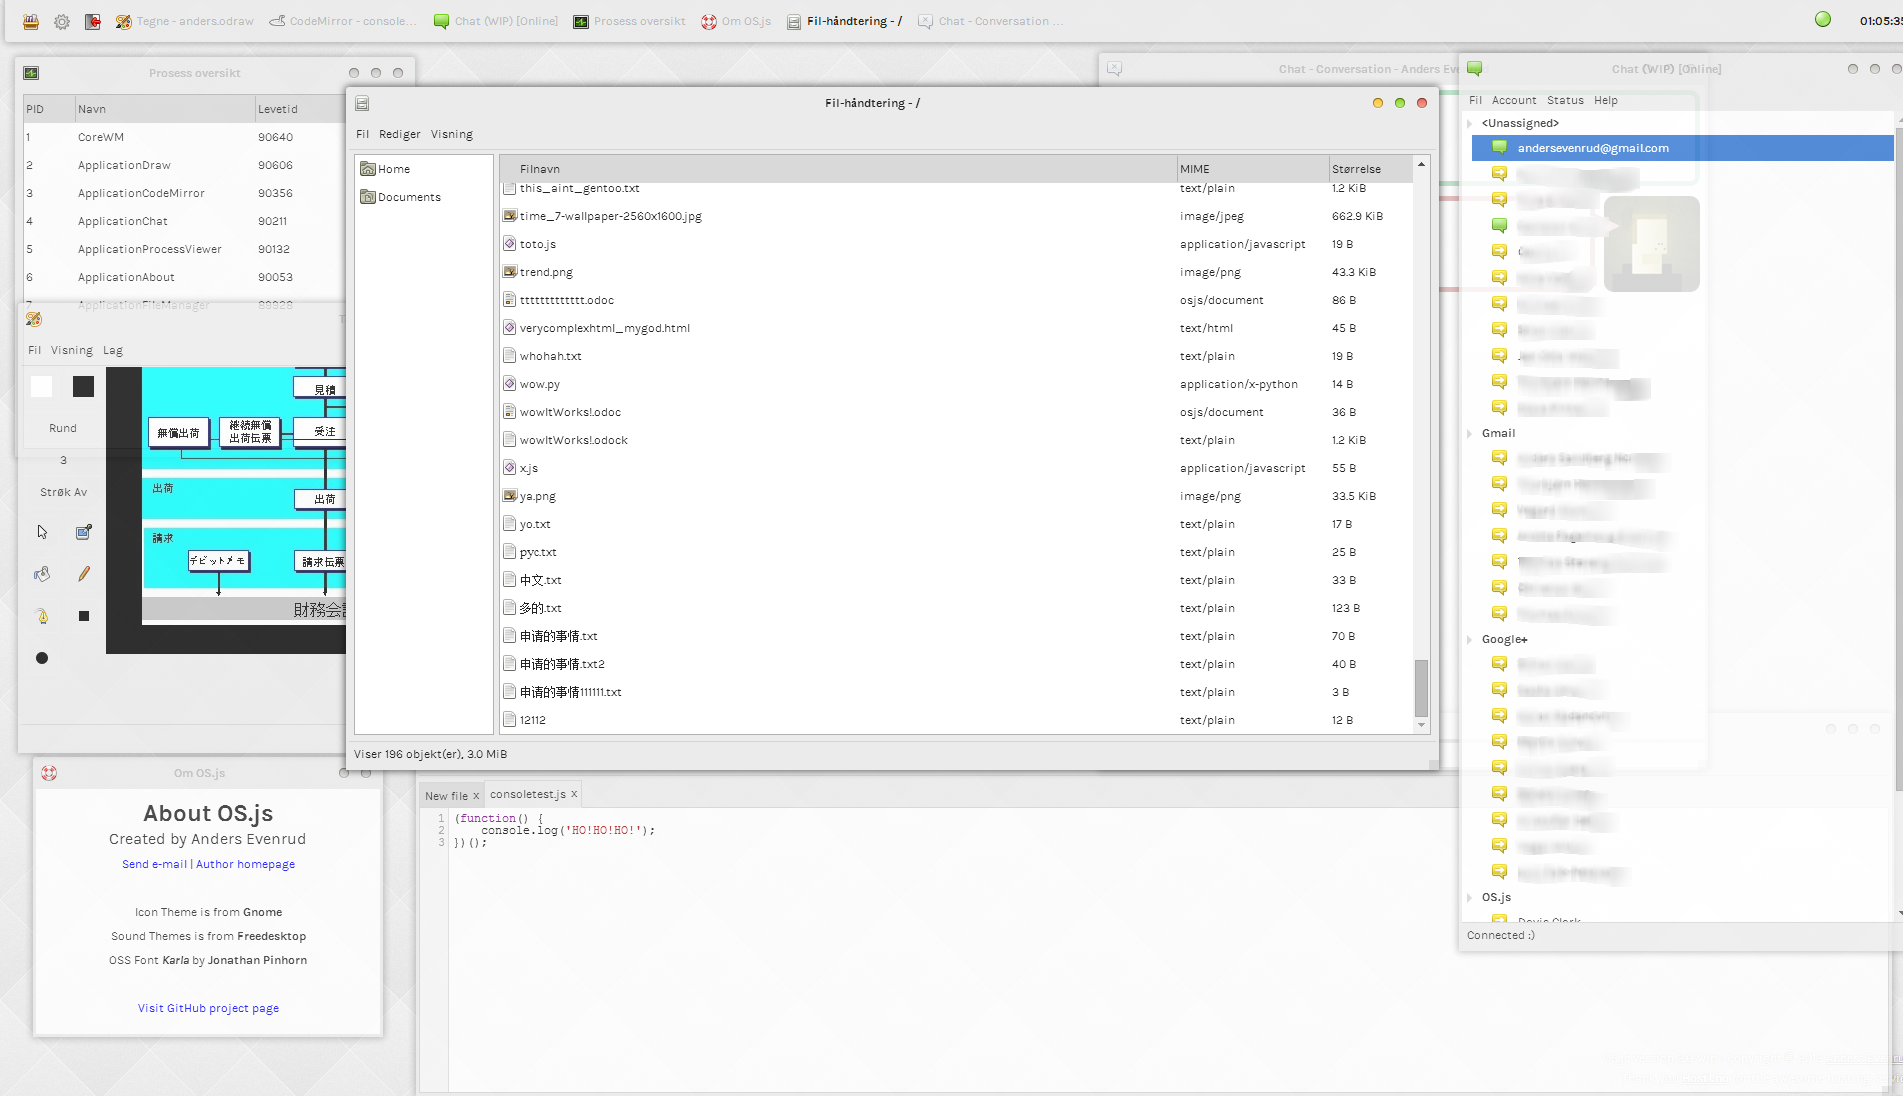
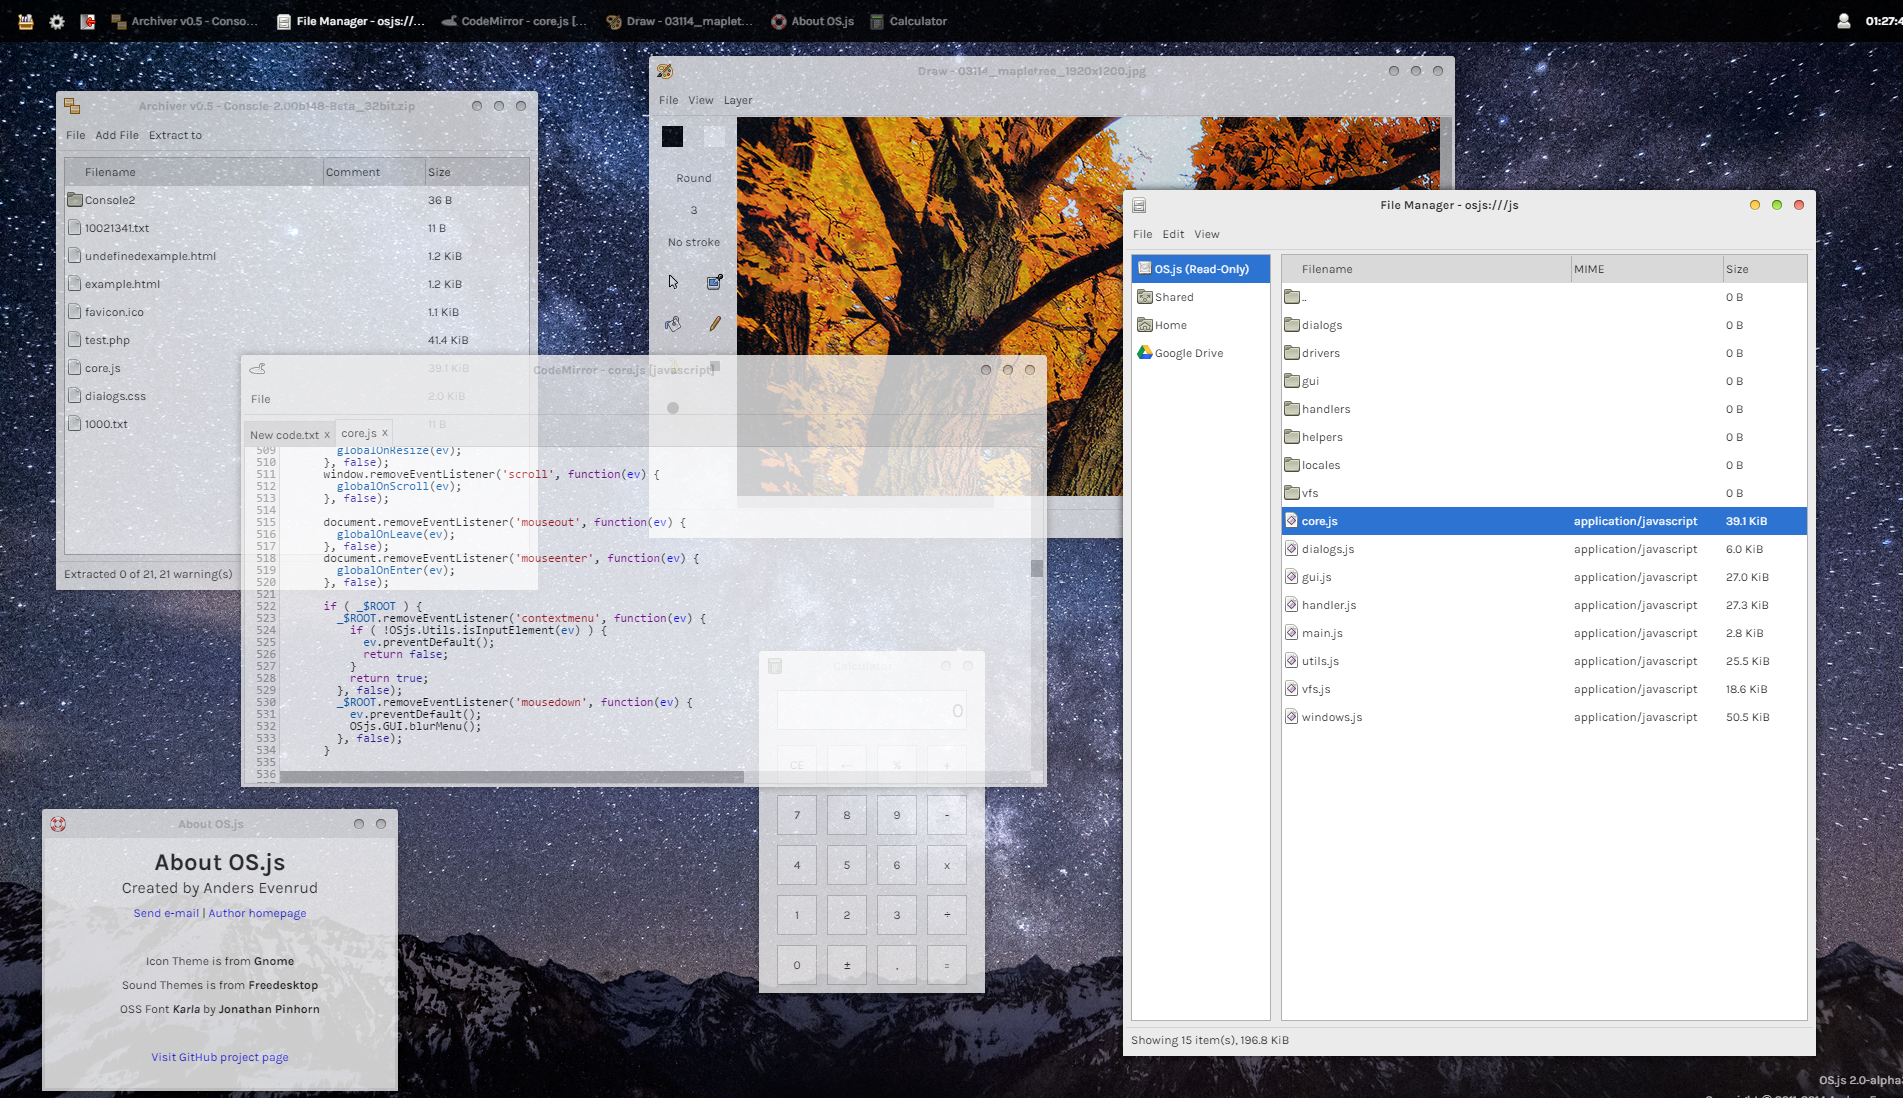
Updated README and its screenshot

diff --git a/README.md b/README.md
@@ -4,11 +4,7 @@ OS.js is a desktop implementation for your browser with a fully-fletched window 
 
 You can read more on [the official homepage](http://andersevenrud.github.io/OS.js-v2/)
 
-Current version: **Alpha**
-
-**See TODO.md for roadmap and planned changes**
-
-**If you find any bugs report them back to me and I'll have them squashed**
+Current version: [Alpha](https://github.com/andersevenrud/OS.js-v2/wiki/Current-Version)
 
 ## Demo
 
@@ -18,7 +14,11 @@ Please note that it may be unavailable at times and slightly out-of-date.
 
 ![ScreenShot](https://raw.githubusercontent.com/andersevenrud/OS.js-v2/master/doc/screenshot.png)
 
-## Features
+## Information
+
+Works on any modern browser (Chrome, Firefox, IE10+) and on mobile devices.
+
+You can deploy OS.js on any platform (Windows requires cygwin) using Node or PHP.
 
 * Free and Open-source
 * Very simple installation
@@ -51,14 +51,6 @@ curl -sS http://andersevenrud.github.io/OS.js-v2/installer | sh
 ```
 
 Make sure to read the [installation documentation](https://github.com/andersevenrud/OS.js-v2/blob/master/INSTALL.md) before you begin. There you will also find instructions on how to download and install manually.
-
-## Compability
-
-Works in any modern browser that supports HTML5 and ES5.1: **Chrome, Firefox, Opera, Safari, Internet Explorer 10+**
-
-Compatible with Mobile devices using Android or iOS (But has currently no custom UI).
-
-You can deploy a server on **Linux, BSD, OSX and Windows/Cygwin using Nodejs or PHP (Apache and Lighttpd)**
 
 ## How to contribute
 
